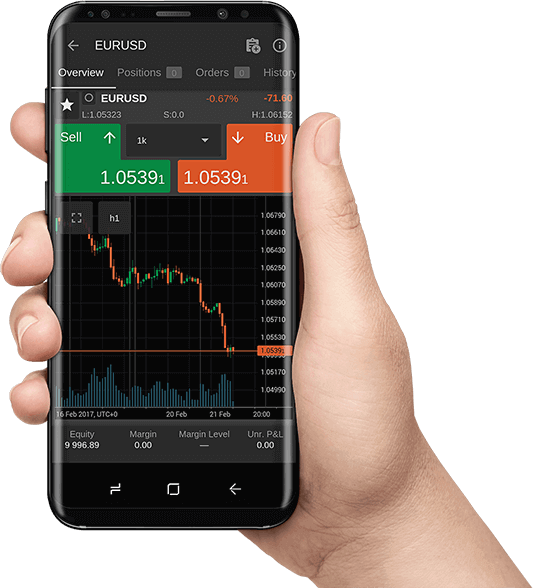
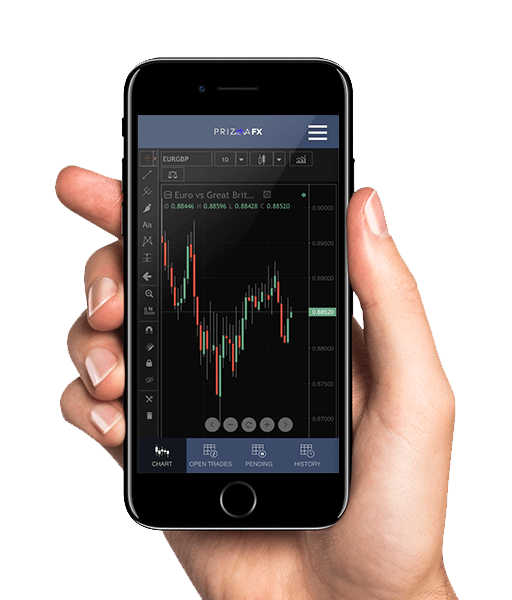
new img

diff --git a/prizma/css/style.min.css b/prizma/css/style.min.css
@@ -1,1 +1,1 @@
-.button--login:after,.header__search:before,.nav__item:before,.step__box:before{content:''}.banner__name,.footer__name,.info__name,.multyplatform__name,.nav__item,.step__name{text-transform:uppercase}body{min-width:320px;margin:0}.container{width:1170px;margin:0 auto;padding:0 15px}@media screen and (max-width:1200px){.container{width:95%;padding:0}}@font-face{font-family:ProximaNova-ExtrabldIt;src:local("Proxima Nova Extrabold Italic"),local("ProximaNova-ExtrabldIt"),url(../fonts/ProximaNova-ExtrabldIt.woff2) format("woff2"),url(../fonts/ProximaNova-ExtrabldIt.woff) format("woff");font-weight:400;font-style:normal}@font-face{font-family:ProximaNova-Black;src:local("Proxima Nova Black"),local("ProximaNova-Black"),url(../fonts/ProximaNova-Black.woff2) format("woff2"),url(../fonts/ProximaNova-Black.woff) format("woff");font-weight:400;font-style:normal}@font-face{font-family:ProximaNova-Bold;src:local("Proxima Nova Bold"),local("ProximaNova-Bold"),url(../fonts/ProximaNova-Bold.woff2) format("woff2"),url(../fonts/ProximaNova-Bold.woff) format("woff");font-weight:400;font-style:normal}@font-face{font-family:ProximaNova-BlackIt;src:local("Proxima Nova Black Italic"),local("ProximaNova-BlackIt"),url(../fonts/ProximaNova-BlackIt.woff2) format("woff2"),url(../fonts/ProximaNova-BlackIt.woff) format("woff");font-weight:400;font-style:normal}@font-face{font-family:ProximaNova-RegularIt;src:local("Proxima Nova Regular Italic"),local("ProximaNova-RegularIt"),url(../fonts/ProximaNova-RegularIt.woff2) format("woff2"),url(../fonts/ProximaNova-RegularIt.woff) format("woff");font-weight:400;font-style:normal}@font-face{font-family:ProximaNova-Light;src:local("Proxima Nova Light"),local("ProximaNova-Light"),url(../fonts/ProximaNova-Light.woff2) format("woff2"),url(../fonts/ProximaNova-Light.woff) format("woff");font-weight:400;font-style:normal}@font-face{font-family:ProximaNova-LightIt;src:local("Proxima Nova Light Italic"),local("ProximaNova-LightIt"),url(../fonts/ProximaNova-LightIt.woff2) format("woff2"),url(../fonts/ProximaNova-LightIt.woff) format("woff");font-weight:400;font-style:normal}@font-face{font-family:ProximaNova-Regular;src:local("Proxima Nova Regular"),local("ProximaNova-Regular"),url(../fonts/ProximaNova-Regular.woff2) format("woff2"),url(../fonts/ProximaNova-Regular.woff) format("woff");font-weight:400;font-style:normal}@font-face{font-family:ProximaNova-ThinIt;src:local("Proxima Nova Thin Italic"),local("ProximaNova-ThinIt"),url(../fonts/ProximaNova-ThinIt.woff2) format("woff2"),url(../fonts/ProximaNova-ThinIt.woff) format("woff");font-weight:400;font-style:normal}@font-face{font-family:ProximaNova-BoldIt;src:local("Proxima Nova Bold Italic"),local("ProximaNova-BoldIt"),url(../fonts/ProximaNova-BoldIt.woff2) format("woff2"),url(../fonts/ProximaNova-BoldIt.woff) format("woff");font-weight:400;font-style:normal}@font-face{font-family:ProximaNova-Extrabld;src:local("Proxima Nova Extrabold"),local("ProximaNova-Extrabld"),url(../fonts/ProximaNova-Extrabld.woff2) format("woff2"),url(../fonts/ProximaNova-Extrabld.woff) format("woff");font-weight:400;font-style:normal}@font-face{font-family:ProximaNova-SemiboldIt;src:local("Proxima Nova Semibold Italic"),local("ProximaNova-SemiboldIt"),url(../fonts/ProximaNova-SemiboldIt.woff2) format("woff2"),url(../fonts/ProximaNova-SemiboldIt.woff) format("woff");font-weight:400;font-style:normal}@font-face{font-family:ProximaNova-Semibold;src:local("Proxima Nova Semibold"),local("ProximaNova-Semibold"),url(../fonts/ProximaNova-Semibold.woff2) format("woff2"),url(../fonts/ProximaNova-Semibold.woff) format("woff");font-weight:400;font-style:normal}.header{padding:35px 0;-webkit-box-shadow:0 3px 7px 0 rgba(174,165,255,.35);box-shadow:0 3px 7px 0 rgba(174,165,255,.35);background:#e9edf1;-webkit-transition:.5s;transition:.5s}.header--scroll{position:fixed;top:0;width:100%;padding:26px 0;background:rgba(233,237,241,.9);z-index:5}.header--scroll .header__settings{margin:0 0 0 15px;z-index:10}.header--scroll .header__menu{display:block}.header--scroll .header__search{display:none}.header--scroll .nav{position:absolute;top:0;width:270px;padding:90px 0 30px;-webkit-box-shadow:0 3px 7px 0 rgba(174,165,255,.35);box-shadow:0 3px 7px 0 rgba(174,165,255,.35);background:#fff;-webkit-transition:.3s linear;transition:.3s linear;opacity:0;clip:rect(0,0,0,0)}.header--scroll .nav--active{opacity:1;clip:auto}.header--scroll .nav__list li{position:relative;width:120px}.header--scroll .nav__item{width:100px;padding:0 0 0 20px}.header--scroll .nav__item:hover{padding:0 0 0 15px}.header--scroll .nav__sublist{top:20px;left:0;width:270px;border-bottom:1px solid #61a3db;z-index:10}.header--scroll .nav__sublist li{width:auto}.header__flex{display:-webkit-box;display:-ms-flexbox;display:flex;-webkit-box-pack:justify;-ms-flex-pack:justify;justify-content:space-between;-webkit-box-align:center;-ms-flex-align:center;align-items:center}.header__settings{display:-webkit-box;display:-ms-flexbox;display:flex;-webkit-box-pack:justify;-ms-flex-pack:justify;justify-content:space-between;-webkit-box-align:center;-ms-flex-align:center;align-items:center;width:120px;margin:0;padding:0;list-style:none}.header__menu{display:none}.header__user,.slider__flex{display:-webkit-box;display:-ms-flexbox}.header__toggle{width:30px;height:20px;font-size:0;border:none;background:url(../img/nav.svg) center no-repeat;-webkit-transition:.2s linear;transition:.2s linear;outline:0;cursor:pointer}.header__toggle--active{background:url(../img/nav-h.svg) center no-repeat}.header__language,.header__search input{background:0 0;font-size:14px;font-family:ProximaNova-Regular,sans-serif}.header__language{border:none;-webkit-appearance:none;-moz-appearance:none;appearance:none}.header__search{position:relative}.header__search input{width:0;height:35px;margin:0 0 0 20px;padding:0 15px 0 35px;border:1px solid transparent;border-radius:17px;-webkit-transition:.5s;transition:.5s;outline:0}.header__search:before{position:absolute;top:7px;left:30px;width:20px;height:20px;background:url(../img/header-search.svg) top no-repeat}.header__search:hover input{width:270px;border:1px solid #1600e6}.header__logo{width:170px;height:21px}.header__user{display:flex;-webkit-box-pack:justify;-ms-flex-pack:justify;justify-content:space-between;-webkit-box-align:center;-ms-flex-align:center;align-items:center;width:220px;margin:0;padding:0;list-style:none}@media screen and (max-width:1200px){.header--scroll .nav{margin:0}}@media screen and (max-width:768px){.header{padding:26px 0}.header--scroll .nav{left:0;display:block;width:100%;margin:0;padding:30px 0}.header--scroll .nav__list{text-align:center}.header--scroll .nav__list li{width:inherit}.header--scroll .nav__item{width:inherit;padding:0 15px}.header--scroll .nav__item:hover{padding:inherit}.header--scroll .nav__sublist{width:100%}.header--scroll .nav__subitem{padding:5px 0}.header__flex{-webkit-box-pack:center;-ms-flex-pack:center;justify-content:center}.header__settings{position:absolute;left:0;width:30px}.header__language,.header__menu,.header__search,.header__user{display:none}}.button{display:block;padding:10px 0;width:170px;color:#fff;font-size:14px;font-family:ProximaNova-Regular,sans-serif;text-align:center;text-decoration:none;border-radius:17px;-webkit-transition:.2s linear;transition:.2s linear}.button--small{width:127px}.button--blue{background:#1600e6}.button--blue:hover{-webkit-box-shadow:0 0 11px 5px rgba(22,0,230,.3);box-shadow:0 0 11px 5px rgba(22,0,230,.3)}.button--login{position:relative;width:60px;color:#000;text-align:left}.edge__box,.footer__name,.info__name,.ready,.step__name{text-align:center}.button--login:after{position:absolute;top:12px;right:0;width:12px;height:12px;background:url(../img/button-login.svg) center no-repeat}.button--login:hover:after{-webkit-animation:login .4s 4 alternate;animation:login .4s 4 alternate}.button--white{color:#1600e6;background:#fff}.nav__item,.nav__subitem{display:block;color:#000;font-size:16px;text-decoration:none}.button--white:hover{-webkit-box-shadow:0 0 11px 5px rgba(255,255,255,.3);box-shadow:0 0 11px 5px rgba(255,255,255,.3)}@-webkit-keyframes login{0%{right:0}100%{right:-5px}}@keyframes login{0%{right:0}100%{right:-5px}}.nav{width:110px;height:60px;margin:auto;padding:80px 0 25px}.nav__list,.nav__sublist{margin:0;list-style:none}.nav__list{position:relative;padding:0}.nav__item{position:relative;width:100%;padding:0 75px 0 15px;font-family:ProximaNova-Regular,sans-serif;-webkit-transition:.3s linear;transition:.3s linear}.nav__item:hover{padding:5px 75px 5px 15px;font-family:ProximaNova-Bold,sans-serif;background:#fff}.nav__item:hover:before{width:99%}.nav__item:before{position:absolute;top:50%;left:1px;width:0%;height:1px;background:#61a3db;-webkit-transition:.5s;transition:.5s}.nav__sublist{position:absolute;top:0;left:200px;width:300px;padding:0;-webkit-transition:.5s;transition:.5s;background:#fff;opacity:0;clip:rect(0,0,0,0)}.nav__subitem{padding:5px 0 5px 25px;font-family:ProximaNova-Regular,sans-serif;-webkit-transition:.3s;transition:.3s;letter-spacing:5px}.slider__box b,.step__box b,.step__name{font-size:30px;font-weight:400}.nav__subitem:hover{color:#fff;background:#61a3db}.nav__list>li:hover .nav__sublist{clip:auto;opacity:1}@media screen and (max-width:1200px){.nav{margin:0 auto 0 100px}}@media screen and (max-width:768px){.nav{display:none}}.slider{overflow:hidden}.slider__container{width:1170px;height:inherit;margin:auto;padding:0 15px}.slider__box{height:480px}.slider__box b{font-family:ProximaNova-Bold,sans-serif}.slider__box p{font-family:ProximaNova-Light,sans-serif}.slider__box--1{background:url(../img/slider-1.jpg) center no-repeat;background-size:cover}.slider__flex{display:flex;-webkit-box-pack:justify;-ms-flex-pack:justify;justify-content:space-between;-webkit-box-align:center;-ms-flex-align:center;align-items:center;width:570px;height:inherit;margin:0 0 0 auto}.slider__text{width:360px}.slider__social{height:260px}.slider__social ul{display:-webkit-box;display:-ms-flexbox;display:flex;-webkit-box-orient:vertical;-webkit-box-direction:normal;-ms-flex-direction:column;flex-direction:column;-webkit-box-pack:justify;-ms-flex-pack:justify;justify-content:space-between;height:inherit;margin:0;padding:0;list-style:none}.slider__item{display:block;width:15px;height:15px}.banner__flex,.step__flex{display:-webkit-box;display:-ms-flexbox;-webkit-box-pack:justify}.slider__item--fb{background:url(../img/social-fb.svg) center no-repeat}.slider__item--in{background:url(../img/social-in.svg) center no-repeat}.slider__item--gp{background:url(../img/social-gp.svg) center no-repeat}.slider__item--tw{background:url(../img/social-tw.svg) center no-repeat}@media screen and (max-width:1200px){.slider__container{width:95%;padding:0}}@media screen and (max-width:768px){.slider__box,.slider__flex{width:auto}.slider__flex{margin:0}.slider__box--1{background-position-x:-100px}.slider__text{width:300px}}.step{padding:40px 0 60px;background:#e9edf1}.step__name{margin:0 0 70px;font-family:ProximaNova-Bold,sans-serif}.step__flex{display:flex;-ms-flex-pack:justify;justify-content:space-between}.step__box{position:relative;width:250px;z-index:1}.step__box b{font-family:ProximaNova-Regular,sans-serif}.step__box hr{width:30px;height:1px;margin:20px 0;border:none;background:#1600e6}.step__box p{font-family:ProximaNova-Light,sans-serif}.banner__name,.step__box:before{font-family:ProximaNova-Bold,sans-serif}.step__box:before{position:absolute;top:-60px;left:-30px;color:#fff;font-size:100px;z-index:-1}.step__box--1:before{content:'1'}.step__box--2:before{content:'2'}.step__box--3:before{content:'3'}.step__box--4:before{content:'4'}@media screen and (max-width:768px){.step{padding:50px 0}.step__name{font-size:20px}.step__flex{-webkit-box-orient:vertical;-webkit-box-direction:normal;-ms-flex-direction:column;flex-direction:column;-webkit-box-align:center;-ms-flex-align:center;align-items:center}.step__box{margin:0 0 50px}.step__box:last-child{margin:0}}.banner{padding:70px 0 0}.banner__flex{display:flex;-ms-flex-pack:justify;justify-content:space-between;-webkit-box-align:center;-ms-flex-align:center;align-items:center}.banner__text{padding:0 0 0 100px;background:url(../img/banner-metatrader.jpg) left top no-repeat;background-size:70px}.banner__name{margin:0;font-size:30px;font-weight:400}.banner__list,.banner__sub,.edge__box p{font-family:ProximaNova-Light,sans-serif}.banner__sub{margin:10px 0 50px}.banner__list{margin:0 0 30px;padding:0;font-size:20px;list-style:inside url(../img/banner-li.svg)}.banner__list li{line-height:40px}.banner__button{margin:0 0 20px 30px}.banner__platform{display:-webkit-box;display:-ms-flexbox;display:flex;-webkit-box-pack:justify;-ms-flex-pack:justify;justify-content:space-between;-webkit-box-align:center;-ms-flex-align:center;align-items:center;width:170px;margin:0 0 0 30px}.banner__android{width:20px;height:22px;background:url(../img/banner-android.svg) center no-repeat;background-size:20px}.banner__ios{width:18px;height:22px;background:url(../img/banner-ios.svg) center no-repeat;background-size:18px}.banner__desktop{width:24px;height:16px;background:url(../img/banner-desktop.svg) center no-repeat;background-size:20px}.banner__mockup{width:533px;height:588px;background:url(../img/banner-mockup.png) center no-repeat}@media screen and (max-width:1200px){.banner{padding:70px 0}.banner__mockup{display:none}}@media screen and (max-width:768px){.banner{padding:50px 0 0}.banner__flex{-webkit-box-orient:vertical;-webkit-box-direction:normal;-ms-flex-direction:column;flex-direction:column}.banner__text{width:auto;padding:100px 0 0;background:url(../img/banner-metatrader.jpg) top no-repeat;background-size:70px}.banner__name{font-size:20px;text-align:center}.banner__sub{margin:10px 0 30px;text-align:center}.banner__list{width:230px;margin:0 auto 30px;font-size:16px}.banner__list li{line-height:normal}.banner__button{margin:0 auto 20px}.banner__platform{margin:auto}.banner__mockup{display:block;width:100%;height:330px;margin:50px 0 0;background-size:300px}}.edge__flex,.multyplatform__flex{display:-webkit-box;display:-ms-flexbox}.edge{padding:70px 0;background:#e9edf1}.edge__flex{display:flex;-webkit-box-pack:justify;-ms-flex-pack:justify;justify-content:space-between}.edge__box{position:relative;width:270px}.edge__box::after,.edge__box::before{content:'';position:absolute;top:0;width:47px;height:93px}.edge__box p{margin:0;font-size:25px}.edge__box b{display:block;font-size:20px;font-weight:400;font-family:ProximaNova-Bold,sans-serif}.edge__box small{font-size:16px;font-family:ProximaNova-Light,sans-serif}.edge__box::before{left:0;background:url(../img/edge-bg.svg) center no-repeat;background-size:47px}.edge__box::after{right:0;background:url(../img/edge-bg.svg) center no-repeat;background-size:47px;-webkit-transform:scale(-1,1);transform:scale(-1,1)}@media screen and (max-width:768px){.edge{padding:50px 0}.edge__flex{-webkit-box-orient:vertical;-webkit-box-direction:normal;-ms-flex-direction:column;flex-direction:column;-webkit-box-align:center;-ms-flex-align:center;align-items:center}.edge__box{margin:0 0 50px}.edge__box:last-child{margin:0}}.info{padding:80px 0;border-bottom:1px solid #e9edf1}.info__name{margin:0;font-size:30px;font-weight:400;font-family:ProximaNova-Bold,sans-serif}.info__hr{margin:40px auto;width:30px;height:1px;border:none;background:#1600e6}.info__text{font-family:ProximaNova-Light,sans-serif}@media screen and (max-width:768px){.info{padding:50px 0}.info__name{font-size:20px}.info__hr{margin:20px auto}.info__text:last-child{margin:0}}.multyplatform{padding:100px 0}.multyplatform__flex{display:flex;-webkit-box-pack:justify;-ms-flex-pack:justify;justify-content:space-between;-webkit-box-align:center;-ms-flex-align:center;align-items:center}.multyplatform__mockup{width:595px;height:262px;background:url(../img/multyplatform-mockup.png) center no-repeat;background-size:595px}.multyplatform__text{width:570px}.multyplatform__name{font-size:30px;font-weight:400;font-family:ProximaNova-Bold,sans-serif}.multyplatform__sub{font-family:ProximaNova-Light,sans-serif}@media screen and (max-width:1200px){.multyplatform__flex{-ms-flex-wrap:wrap;flex-wrap:wrap;-webkit-box-align:center;-ms-flex-align:center;align-items:center}.multyplatform__mockup,.multyplatform__text{margin:auto}}@media screen and (max-width:768px){.multyplatform{padding:50px 0}.multyplatform__mockup{height:150px;background-size:300px}.multyplatform__name{font-size:20px;text-align:center}}.ready{padding:50px 0;color:#fff;background:#1600e6}.ready__name{margin:0;font-size:30px;font-weight:400;font-family:ProximaNova-Bold,sans-serif}.ready__text{margin:30px 0;font-family:ProximaNova-Light,sans-serif}.ready__start{margin:auto}@media screen and (max-width:768px){.ready__name{font-size:20px}.ready__text{margin:16px 0}}.payment{padding:20px 0;background:#9c9fa3}.payment__flex{display:-webkit-box;display:-ms-flexbox;display:flex;-webkit-box-pack:justify;-ms-flex-pack:justify;justify-content:space-between;-webkit-box-align:center;-ms-flex-align:center;align-items:center}.payment__box{-webkit-transition:.3s;transition:.3s}.payment__box--visa{width:50px;height:16px;background:url(../img/payment-visa.svg) top no-repeat}.payment__box--mc{width:33px;height:23px;background:url(../img/payment-mc.svg) top no-repeat}.payment__box--bank{width:34px;height:34px;background:url(../img/payment-bank.svg) top no-repeat}.payment__box--neteller{width:56px;height:10px;background:url(../img/payment-neteller.svg) top no-repeat}.payment__box--skrill{width:40px;height:14px;background:url(../img/payment-skrill.svg) center no-repeat}.footer{padding:30px 0;background:#4c4e50}.footer__logo{display:block;width:170px;height:21px;margin:auto}.footer__flex,.footer__links{display:-webkit-box;display:-ms-flexbox;-webkit-box-pack:justify}.footer__links{display:flex;-ms-flex-pack:justify;justify-content:space-between;-webkit-box-align:center;-ms-flex-align:center;align-items:center;margin:50px 0 30px;padding:0;list-style:none}.footer__links li{color:#fff}.footer__links li a{color:#fff;font-size:16px;font-family:ProximaNova-Bold,sans-serif;text-decoration:none}.footer__copyright,.footer__name,.footer__text{color:#fff;font-family:ProximaNova-Light,sans-serif}.footer__hr{width:100%;height:1px;margin:0;border:none;background:#fff}.footer__name{display:block;margin:30px 0 20px;font-weight:400}.footer__text{margin:0 0 30px}.footer__flex{display:flex;-ms-flex-pack:justify;justify-content:space-between;-webkit-box-align:center;-ms-flex-align:center;align-items:center;margin:30px 0 0}.footer__copyright{margin:0}.footer__social{display:-webkit-box;display:-ms-flexbox;display:flex;-webkit-box-pack:justify;-ms-flex-pack:justify;justify-content:space-between;-webkit-box-align:center;-ms-flex-align:center;align-items:center;width:370px;margin:0;padding:0;list-style:none}.footer__item{display:block;width:15px;height:15px}.footer__item--fb{background:url(../img/social-footer-fb.svg) center no-repeat}.footer__item--gp{background:url(../img/social-footer-gp.svg) center no-repeat}.footer__item--in{background:url(../img/social-footer-in.svg) center no-repeat}.footer__item--tw{background:url(../img/social-footer-tw.svg) center no-repeat}@media screen and (max-width:768px){.footer__flex,.footer__links{-webkit-box-orient:vertical;-webkit-box-direction:normal}.footer__links{-ms-flex-direction:column;flex-direction:column;margin:30px 0}.footer__links li:nth-child(even){display:none}.footer__flex{-ms-flex-direction:column;flex-direction:column}.footer__social{width:200px;margin:0 0 30px}.footer__item{display:block;width:25px;height:25px}.footer__copyright{-webkit-box-ordinal-group:3;-ms-flex-order:2;order:2}}
+.button--login:after,.header__search:before,.nav__item:before,.step__box:before{content:''}.banner__name,.footer__name,.info__name,.multyplatform__name,.nav__item,.step__name{text-transform:uppercase}body{min-width:320px;margin:0}.container{width:1170px;margin:0 auto;padding:0 15px}@media screen and (max-width:1200px){.container{width:95%;padding:0}}@font-face{font-family:ProximaNova-ExtrabldIt;src:local("Proxima Nova Extrabold Italic"),local("ProximaNova-ExtrabldIt"),url(../fonts/ProximaNova-ExtrabldIt.woff2) format("woff2"),url(../fonts/ProximaNova-ExtrabldIt.woff) format("woff");font-weight:400;font-style:normal}@font-face{font-family:ProximaNova-Black;src:local("Proxima Nova Black"),local("ProximaNova-Black"),url(../fonts/ProximaNova-Black.woff2) format("woff2"),url(../fonts/ProximaNova-Black.woff) format("woff");font-weight:400;font-style:normal}@font-face{font-family:ProximaNova-Bold;src:local("Proxima Nova Bold"),local("ProximaNova-Bold"),url(../fonts/ProximaNova-Bold.woff2) format("woff2"),url(../fonts/ProximaNova-Bold.woff) format("woff");font-weight:400;font-style:normal}@font-face{font-family:ProximaNova-BlackIt;src:local("Proxima Nova Black Italic"),local("ProximaNova-BlackIt"),url(../fonts/ProximaNova-BlackIt.woff2) format("woff2"),url(../fonts/ProximaNova-BlackIt.woff) format("woff");font-weight:400;font-style:normal}@font-face{font-family:ProximaNova-RegularIt;src:local("Proxima Nova Regular Italic"),local("ProximaNova-RegularIt"),url(../fonts/ProximaNova-RegularIt.woff2) format("woff2"),url(../fonts/ProximaNova-RegularIt.woff) format("woff");font-weight:400;font-style:normal}@font-face{font-family:ProximaNova-Light;src:local("Proxima Nova Light"),local("ProximaNova-Light"),url(../fonts/ProximaNova-Light.woff2) format("woff2"),url(../fonts/ProximaNova-Light.woff) format("woff");font-weight:400;font-style:normal}@font-face{font-family:ProximaNova-LightIt;src:local("Proxima Nova Light Italic"),local("ProximaNova-LightIt"),url(../fonts/ProximaNova-LightIt.woff2) format("woff2"),url(../fonts/ProximaNova-LightIt.woff) format("woff");font-weight:400;font-style:normal}@font-face{font-family:ProximaNova-Regular;src:local("Proxima Nova Regular"),local("ProximaNova-Regular"),url(../fonts/ProximaNova-Regular.woff2) format("woff2"),url(../fonts/ProximaNova-Regular.woff) format("woff");font-weight:400;font-style:normal}@font-face{font-family:ProximaNova-ThinIt;src:local("Proxima Nova Thin Italic"),local("ProximaNova-ThinIt"),url(../fonts/ProximaNova-ThinIt.woff2) format("woff2"),url(../fonts/ProximaNova-ThinIt.woff) format("woff");font-weight:400;font-style:normal}@font-face{font-family:ProximaNova-BoldIt;src:local("Proxima Nova Bold Italic"),local("ProximaNova-BoldIt"),url(../fonts/ProximaNova-BoldIt.woff2) format("woff2"),url(../fonts/ProximaNova-BoldIt.woff) format("woff");font-weight:400;font-style:normal}@font-face{font-family:ProximaNova-Extrabld;src:local("Proxima Nova Extrabold"),local("ProximaNova-Extrabld"),url(../fonts/ProximaNova-Extrabld.woff2) format("woff2"),url(../fonts/ProximaNova-Extrabld.woff) format("woff");font-weight:400;font-style:normal}@font-face{font-family:ProximaNova-SemiboldIt;src:local("Proxima Nova Semibold Italic"),local("ProximaNova-SemiboldIt"),url(../fonts/ProximaNova-SemiboldIt.woff2) format("woff2"),url(../fonts/ProximaNova-SemiboldIt.woff) format("woff");font-weight:400;font-style:normal}@font-face{font-family:ProximaNova-Semibold;src:local("Proxima Nova Semibold"),local("ProximaNova-Semibold"),url(../fonts/ProximaNova-Semibold.woff2) format("woff2"),url(../fonts/ProximaNova-Semibold.woff) format("woff");font-weight:400;font-style:normal}.header{position:-webkit-sticky;position:sticky;top:0;padding:35px 0;-webkit-box-shadow:0 3px 7px 0 rgba(174,165,255,.35);box-shadow:0 3px 7px 0 rgba(174,165,255,.35);background:#e9edf1;-webkit-transition:.5s;transition:.5s}.header--scroll{padding:26px 0;background:rgba(233,237,241,.9);z-index:5}.header--scroll .header__settings{margin:0 0 0 15px;z-index:10}.header--scroll .header__menu{display:block}.header--scroll .header__search{display:none}.header--scroll .nav{position:absolute;top:0;width:270px;padding:90px 0 30px;-webkit-box-shadow:0 3px 7px 0 rgba(174,165,255,.35);box-shadow:0 3px 7px 0 rgba(174,165,255,.35);background:#fff;-webkit-transition:.3s linear;transition:.3s linear;opacity:0;clip:rect(0,0,0,0)}.header--scroll .nav--active{opacity:1;clip:auto}.header--scroll .nav__list li{position:relative;width:120px}.header--scroll .nav__item{width:100px;padding:0 0 0 20px}.header--scroll .nav__item:hover{padding:0 0 0 15px}.header--scroll .nav__sublist{top:20px;left:0;width:270px;border-bottom:1px solid #61a3db;z-index:10}.header--scroll .nav__sublist li{width:auto}.header__flex{display:-webkit-box;display:-ms-flexbox;display:flex;-webkit-box-pack:justify;-ms-flex-pack:justify;justify-content:space-between;-webkit-box-align:center;-ms-flex-align:center;align-items:center}.header__settings{display:-webkit-box;display:-ms-flexbox;display:flex;-webkit-box-pack:justify;-ms-flex-pack:justify;justify-content:space-between;-webkit-box-align:center;-ms-flex-align:center;align-items:center;width:120px;margin:0;padding:0;list-style:none}.header__menu{display:none}.header__user,.slider__flex{display:-webkit-box;display:-ms-flexbox}.header__toggle{width:30px;height:20px;font-size:0;border:none;background:url(../img/nav.svg) center no-repeat;-webkit-transition:.2s linear;transition:.2s linear;outline:0;cursor:pointer}.header__toggle--active{background:url(../img/nav-h.svg) center no-repeat}.header__language,.header__search input{background:0 0;font-size:14px;font-family:ProximaNova-Regular,sans-serif}.header__language{border:none;-webkit-appearance:none;-moz-appearance:none;appearance:none}.header__search{position:relative}.header__search input{width:0;height:35px;margin:0 0 0 20px;padding:0 15px 0 35px;border:1px solid transparent;border-radius:17px;-webkit-transition:.5s;transition:.5s;outline:0}.header__search:before{position:absolute;top:7px;left:30px;width:20px;height:20px;background:url(../img/header-search.svg) top no-repeat}.header__search:hover input{width:270px;border:1px solid #1600e6}.header__logo{width:170px;height:21px}.header__user{display:flex;-webkit-box-pack:justify;-ms-flex-pack:justify;justify-content:space-between;-webkit-box-align:center;-ms-flex-align:center;align-items:center;width:220px;margin:0;padding:0;list-style:none}@media screen and (max-width:1200px){.header--scroll .nav{margin:0}}@media screen and (max-width:768px){.header{padding:26px 0}.header--scroll .nav{left:0;display:block;width:100%;margin:0;padding:30px 0}.header--scroll .nav__list{text-align:center}.header--scroll .nav__list li{width:inherit}.header--scroll .nav__item{width:inherit;padding:0 15px}.header--scroll .nav__item:hover{padding:inherit}.header--scroll .nav__sublist{width:100%}.header--scroll .nav__subitem{padding:5px 0}.header__flex{-webkit-box-pack:center;-ms-flex-pack:center;justify-content:center}.header__settings{position:absolute;left:0;width:30px}.header__language,.header__menu,.header__search,.header__user{display:none}}.button{display:block;padding:10px 0;width:170px;color:#fff;font-size:14px;font-family:ProximaNova-Regular,sans-serif;text-align:center;text-decoration:none;border-radius:17px;-webkit-transition:.2s linear;transition:.2s linear}.button--small{width:127px}.button--blue{background:#1600e6}.button--blue:hover{-webkit-box-shadow:0 0 11px 5px rgba(22,0,230,.3);box-shadow:0 0 11px 5px rgba(22,0,230,.3)}.button--login{position:relative;width:60px;color:#000;text-align:left}.edge__box,.footer__name,.info__name,.ready,.step__name{text-align:center}.button--login:after{position:absolute;top:12px;right:0;width:12px;height:12px;background:url(../img/button-login.svg) center no-repeat}.button--login:hover:after{-webkit-animation:login .4s 4 alternate;animation:login .4s 4 alternate}.button--white{color:#1600e6;background:#fff}.nav__item,.nav__subitem{display:block;color:#000;font-size:16px;text-decoration:none}.button--white:hover{-webkit-box-shadow:0 0 11px 5px rgba(255,255,255,.3);box-shadow:0 0 11px 5px rgba(255,255,255,.3)}@-webkit-keyframes login{0%{right:0}100%{right:-5px}}@keyframes login{0%{right:0}100%{right:-5px}}.nav{width:110px;height:60px;margin:auto;padding:80px 0 25px}.nav__list,.nav__sublist{margin:0;list-style:none}.nav__list{position:relative;padding:0}.nav__item{position:relative;width:100%;padding:0 75px 0 15px;font-family:ProximaNova-Regular,sans-serif;-webkit-transition:.3s linear;transition:.3s linear}.nav__item:hover{padding:5px 75px 5px 15px;font-family:ProximaNova-Bold,sans-serif;background:#fff}.nav__item:hover:before{width:99%}.nav__item:before{position:absolute;top:50%;left:1px;width:0%;height:1px;background:#61a3db;-webkit-transition:.5s;transition:.5s}.nav__sublist{position:absolute;top:0;left:200px;width:300px;padding:0;-webkit-transition:.5s;transition:.5s;background:#fff;opacity:0;clip:rect(0,0,0,0)}.nav__subitem{padding:5px 0 5px 25px;font-family:ProximaNova-Regular,sans-serif;-webkit-transition:.3s;transition:.3s;letter-spacing:5px}.slider__box b,.step__box b,.step__name{font-size:30px;font-weight:400}.nav__subitem:hover{color:#fff;background:#61a3db}.nav__list>li:hover .nav__sublist{clip:auto;opacity:1}@media screen and (max-width:1200px){.nav{margin:0 auto 0 100px}}@media screen and (max-width:768px){.nav{display:none}}.slider{overflow:hidden}.slider__container{width:1170px;height:inherit;margin:auto;padding:0 15px}.slider__box{height:480px}.slider__box b{font-family:ProximaNova-Bold,sans-serif}.slider__box p{font-family:ProximaNova-Light,sans-serif}.slider__box--1{background:url(../img/slider-1.jpg) center no-repeat;background-size:cover}.slider__flex{display:flex;-webkit-box-pack:justify;-ms-flex-pack:justify;justify-content:space-between;-webkit-box-align:center;-ms-flex-align:center;align-items:center;width:570px;height:inherit;margin:0 0 0 auto}.slider__text{width:360px}.slider__social{height:260px}.slider__social ul{display:-webkit-box;display:-ms-flexbox;display:flex;-webkit-box-orient:vertical;-webkit-box-direction:normal;-ms-flex-direction:column;flex-direction:column;-webkit-box-pack:justify;-ms-flex-pack:justify;justify-content:space-between;height:inherit;margin:0;padding:0;list-style:none}.slider__item{display:block;width:15px;height:15px}.banner__flex,.step__flex{display:-webkit-box;display:-ms-flexbox;-webkit-box-pack:justify}.slider__item--fb{background:url(../img/social-fb.svg) center no-repeat}.slider__item--in{background:url(../img/social-in.svg) center no-repeat}.slider__item--gp{background:url(../img/social-gp.svg) center no-repeat}.slider__item--tw{background:url(../img/social-tw.svg) center no-repeat}@media screen and (max-width:1200px){.slider__container{width:95%;padding:0}}@media screen and (max-width:768px){.slider__box,.slider__flex{width:auto}.slider__flex{margin:0}.slider__box--1{background-position-x:-100px}.slider__text{width:300px}}.step{padding:40px 0 60px;background:#e9edf1}.step__name{margin:0 0 70px;font-family:ProximaNova-Bold,sans-serif}.step__flex{display:flex;-ms-flex-pack:justify;justify-content:space-between}.step__box{position:relative;width:250px;z-index:1}.step__box b{font-family:ProximaNova-Regular,sans-serif}.step__box hr{width:30px;height:1px;margin:20px 0;border:none;background:#1600e6}.step__box p{font-family:ProximaNova-Light,sans-serif}.banner__name,.step__box:before{font-family:ProximaNova-Bold,sans-serif}.step__box:before{position:absolute;top:-60px;left:-30px;color:#fff;font-size:100px;z-index:-1}.step__box--1:before{content:'1'}.step__box--2:before{content:'2'}.step__box--3:before{content:'3'}.step__box--4:before{content:'4'}@media screen and (max-width:768px){.step{padding:50px 0}.step__name{font-size:20px}.step__flex{-webkit-box-orient:vertical;-webkit-box-direction:normal;-ms-flex-direction:column;flex-direction:column;-webkit-box-align:center;-ms-flex-align:center;align-items:center}.step__box{margin:0 0 50px}.step__box:last-child{margin:0}}.banner{padding:70px 0 0}.banner__flex{display:flex;-ms-flex-pack:justify;justify-content:space-between;-webkit-box-align:center;-ms-flex-align:center;align-items:center}.banner__text{padding:0 0 0 100px;background:url(../img/banner-metatrader.jpg) left top no-repeat;background-size:70px}.banner__name{margin:0;font-size:30px;font-weight:400}.banner__list,.banner__sub,.edge__box p{font-family:ProximaNova-Light,sans-serif}.banner__sub{margin:10px 0 50px}.banner__list{margin:0 0 30px;padding:0;font-size:20px;list-style:inside url(../img/banner-li.svg)}.banner__list li{line-height:40px}.banner__button{margin:0 0 20px 30px}.banner__platform{display:-webkit-box;display:-ms-flexbox;display:flex;-webkit-box-pack:justify;-ms-flex-pack:justify;justify-content:space-between;-webkit-box-align:center;-ms-flex-align:center;align-items:center;width:170px;margin:0 0 0 30px}.banner__android{width:20px;height:22px;background:url(../img/banner-android.svg) center no-repeat;background-size:20px}.banner__ios{width:18px;height:22px;background:url(../img/banner-ios.svg) center no-repeat;background-size:18px}.banner__desktop{width:24px;height:16px;background:url(../img/banner-desktop.svg) center no-repeat;background-size:20px}.banner__mockup{width:412px;height:550px;background:url(../img/banner-mockup.png) bottom no-repeat}@media screen and (max-width:1200px){.banner{padding:70px 0}.banner__mockup{display:none}}@media screen and (max-width:768px){.banner{padding:50px 0 0}.banner__flex{-webkit-box-orient:vertical;-webkit-box-direction:normal;-ms-flex-direction:column;flex-direction:column}.banner__text{width:auto;padding:100px 0 0;background:url(../img/banner-metatrader.jpg) top no-repeat;background-size:70px}.banner__name{font-size:20px;text-align:center}.banner__sub{margin:10px 0 30px;text-align:center}.banner__list{width:230px;margin:0 auto 30px;font-size:16px}.banner__list li{line-height:normal}.banner__button{margin:0 auto 20px}.banner__platform{margin:auto}.banner__mockup{display:block;width:100%;height:330px;margin:50px 0 0;background-size:300px}}.edge__flex,.multyplatform__flex{display:-webkit-box;display:-ms-flexbox}.edge{padding:70px 0;background:#e9edf1}.edge__flex{display:flex;-webkit-box-pack:justify;-ms-flex-pack:justify;justify-content:space-between}.edge__box{position:relative;width:270px}.edge__box::after,.edge__box::before{content:'';position:absolute;top:0;width:47px;height:93px}.edge__box p{margin:0;font-size:25px}.edge__box b{display:block;font-size:20px;font-weight:400;font-family:ProximaNova-Bold,sans-serif}.edge__box small{font-size:16px;font-family:ProximaNova-Light,sans-serif}.edge__box::before{left:0;background:url(../img/edge-bg.svg) center no-repeat;background-size:47px}.edge__box::after{right:0;background:url(../img/edge-bg.svg) center no-repeat;background-size:47px;-webkit-transform:scale(-1,1);transform:scale(-1,1)}@media screen and (max-width:768px){.edge{padding:50px 0}.edge__flex{-webkit-box-orient:vertical;-webkit-box-direction:normal;-ms-flex-direction:column;flex-direction:column;-webkit-box-align:center;-ms-flex-align:center;align-items:center}.edge__box{margin:0 0 50px}.edge__box:last-child{margin:0}}.info{padding:80px 0;border-bottom:1px solid #e9edf1}.info__name{margin:0;font-size:30px;font-weight:400;font-family:ProximaNova-Bold,sans-serif}.info__hr{margin:40px auto;width:30px;height:1px;border:none;background:#1600e6}.info__text{font-family:ProximaNova-Light,sans-serif}@media screen and (max-width:768px){.info{padding:50px 0}.info__name{font-size:20px}.info__hr{margin:20px auto}.info__text:last-child{margin:0}}.multyplatform{padding:100px 0}.multyplatform__flex{display:flex;-webkit-box-pack:justify;-ms-flex-pack:justify;justify-content:space-between;-webkit-box-align:center;-ms-flex-align:center;align-items:center}.multyplatform__mockup{width:510px;height:400px;background:url(../img/multyplatform-mockup.png) center no-repeat;background-size:cover}.multyplatform__text{width:570px}.multyplatform__name{font-size:30px;font-weight:400;font-family:ProximaNova-Bold,sans-serif}.multyplatform__sub{font-family:ProximaNova-Light,sans-serif}@media screen and (max-width:1200px){.multyplatform__flex{-ms-flex-wrap:wrap;flex-wrap:wrap;-webkit-box-align:center;-ms-flex-align:center;align-items:center}.multyplatform__mockup,.multyplatform__text{margin:auto}}@media screen and (max-width:768px){.multyplatform{padding:50px 0}.multyplatform__mockup{height:240px;background-size:300px}.multyplatform__name{font-size:20px;text-align:center}}.ready{padding:50px 0;color:#fff;background:#1600e6}.ready__name{margin:0;font-size:30px;font-weight:400;font-family:ProximaNova-Bold,sans-serif}.ready__text{margin:30px 0;font-family:ProximaNova-Light,sans-serif}.ready__start{margin:auto}@media screen and (max-width:768px){.ready__name{font-size:20px}.ready__text{margin:16px 0}}.payment{padding:20px 0;background:#9c9fa3}.payment__flex{display:-webkit-box;display:-ms-flexbox;display:flex;-webkit-box-pack:justify;-ms-flex-pack:justify;justify-content:space-between;-webkit-box-align:center;-ms-flex-align:center;align-items:center}.payment__box{-webkit-transition:.3s;transition:.3s}.payment__box--visa{width:50px;height:16px;background:url(../img/payment-visa.svg) top no-repeat}.payment__box--mc{width:33px;height:23px;background:url(../img/payment-mc.svg) top no-repeat}.payment__box--bank{width:34px;height:34px;background:url(../img/payment-bank.svg) top no-repeat}.payment__box--neteller{width:56px;height:10px;background:url(../img/payment-neteller.svg) top no-repeat}.payment__box--skrill{width:40px;height:14px;background:url(../img/payment-skrill.svg) center no-repeat}.footer{padding:30px 0;background:#4c4e50}.footer__logo{display:block;width:170px;height:21px;margin:auto}.footer__flex,.footer__links{display:-webkit-box;display:-ms-flexbox;-webkit-box-pack:justify}.footer__links{display:flex;-ms-flex-pack:justify;justify-content:space-between;-webkit-box-align:center;-ms-flex-align:center;align-items:center;margin:50px 0 30px;padding:0;list-style:none}.footer__links li{color:#fff}.footer__links li a{color:#fff;font-size:16px;font-family:ProximaNova-Bold,sans-serif;text-decoration:none}.footer__copyright,.footer__name,.footer__text{color:#fff;font-family:ProximaNova-Light,sans-serif}.footer__hr{width:100%;height:1px;margin:0;border:none;background:#fff}.footer__name{display:block;margin:30px 0 20px;font-weight:400}.footer__text{margin:0 0 30px}.footer__flex{display:flex;-ms-flex-pack:justify;justify-content:space-between;-webkit-box-align:center;-ms-flex-align:center;align-items:center;margin:30px 0 0}.footer__copyright{margin:0}.footer__social{display:-webkit-box;display:-ms-flexbox;display:flex;-webkit-box-pack:justify;-ms-flex-pack:justify;justify-content:space-between;-webkit-box-align:center;-ms-flex-align:center;align-items:center;width:370px;margin:0;padding:0;list-style:none}.footer__item{display:block;width:15px;height:15px}.footer__item--fb{background:url(../img/social-footer-fb.svg) center no-repeat}.footer__item--gp{background:url(../img/social-footer-gp.svg) center no-repeat}.footer__item--in{background:url(../img/social-footer-in.svg) center no-repeat}.footer__item--tw{background:url(../img/social-footer-tw.svg) center no-repeat}@media screen and (max-width:768px){.footer__flex,.footer__links{-webkit-box-orient:vertical;-webkit-box-direction:normal}.footer__links{-ms-flex-direction:column;flex-direction:column;margin:30px 0}.footer__links li:nth-child(even){display:none}.footer__flex{-ms-flex-direction:column;flex-direction:column}.footer__social{width:200px;margin:0 0 30px}.footer__item{display:block;width:25px;height:25px}.footer__copyright{-webkit-box-ordinal-group:3;-ms-flex-order:2;order:2}}

diff --git a/prizma/css/style.css b/prizma/css/style.css
@@ -91,6 +91,9 @@ body {
   font-style: normal; }
 
 .header {
+  position: -webkit-sticky;
+  position: sticky;
+  top: 0;
   padding: 35px 0;
   -webkit-box-shadow: 0px 3px 7px 0px rgba(174, 165, 255, 0.35);
   box-shadow: 0px 3px 7px 0px rgba(174, 165, 255, 0.35);
@@ -99,9 +102,6 @@ body {
   transition: 0.5s; }
 
 .header--scroll {
-  position: fixed;
-  top: 0;
-  width: 100%;
   padding: 26px 0;
   background: rgba(233, 237, 241, 0.9);
   z-index: 5; }
@@ -648,9 +648,9 @@ body {
   background-size: 20px; }
 
 .banner__mockup {
-  width: 533px;
-  height: 588px;
-  background: url("../img/banner-mockup.png") no-repeat center; }
+  width: 412px;
+  height: 550px;
+  background: url("../img/banner-mockup.png") no-repeat bottom; }
 
 @media screen and (max-width: 1200px) {
   .banner {
@@ -806,10 +806,10 @@ body {
   align-items: center; }
 
 .multyplatform__mockup {
-  width: 595px;
-  height: 262px;
+  width: 510px;
+  height: 400px;
   background: url("../img/multyplatform-mockup.png") no-repeat center;
-  background-size: 595px; }
+  background-size: cover; }
 
 .multyplatform__text {
   width: 570px; }
@@ -838,7 +838,7 @@ body {
   .multyplatform {
     padding: 50px 0; }
   .multyplatform__mockup {
-    height: 150px;
+    height: 240px;
     background-size: 300px; }
   .multyplatform__name {
     font-size: 20px;

diff --git a/prizma/sass/blocks/multyplatform.scss b/prizma/sass/blocks/multyplatform.scss
@@ -9,10 +9,10 @@
 }
 
 .multyplatform__mockup {
-  width: 595px;
-  height: 262px;
+  width: 510px;
+  height: 400px;
   background: url('../img/multyplatform-mockup.png') no-repeat center;
-  background-size: 595px;
+  background-size: cover;
 }
 
 .multyplatform__text {
@@ -48,7 +48,7 @@
   }
   
   .multyplatform__mockup {
-    height: 150px;
+    height: 240px;
     background-size: 300px;
   }
   

diff --git a/prizma/sass/blocks/header.scss b/prizma/sass/blocks/header.scss
@@ -1,4 +1,6 @@
 .header {
+  position: sticky;
+  top: 0;
   padding: 35px 0;
   box-shadow: 0px 3px 7px 0px rgba(174, 165, 255, 0.35);
   background: $bg;
@@ -6,9 +8,6 @@
 }
 
 .header--scroll {
-  position: fixed;
-  top: 0;
-  width: 100%;
   padding: 26px 0;
   background: rgba(233, 237, 241, 0.9);
   z-index: 5;

diff --git a/prizma/sass/blocks/banner.scss b/prizma/sass/blocks/banner.scss
@@ -73,9 +73,9 @@
 }
 
 .banner__mockup {
-  width: 533px;
-  height: 588px;
-  background: url('../img/banner-mockup.png') no-repeat center;
+  width: 412px;
+  height: 550px;
+  background: url('../img/banner-mockup.png') no-repeat bottom;
 }
 
 @media screen and ($tablet-widths) {
